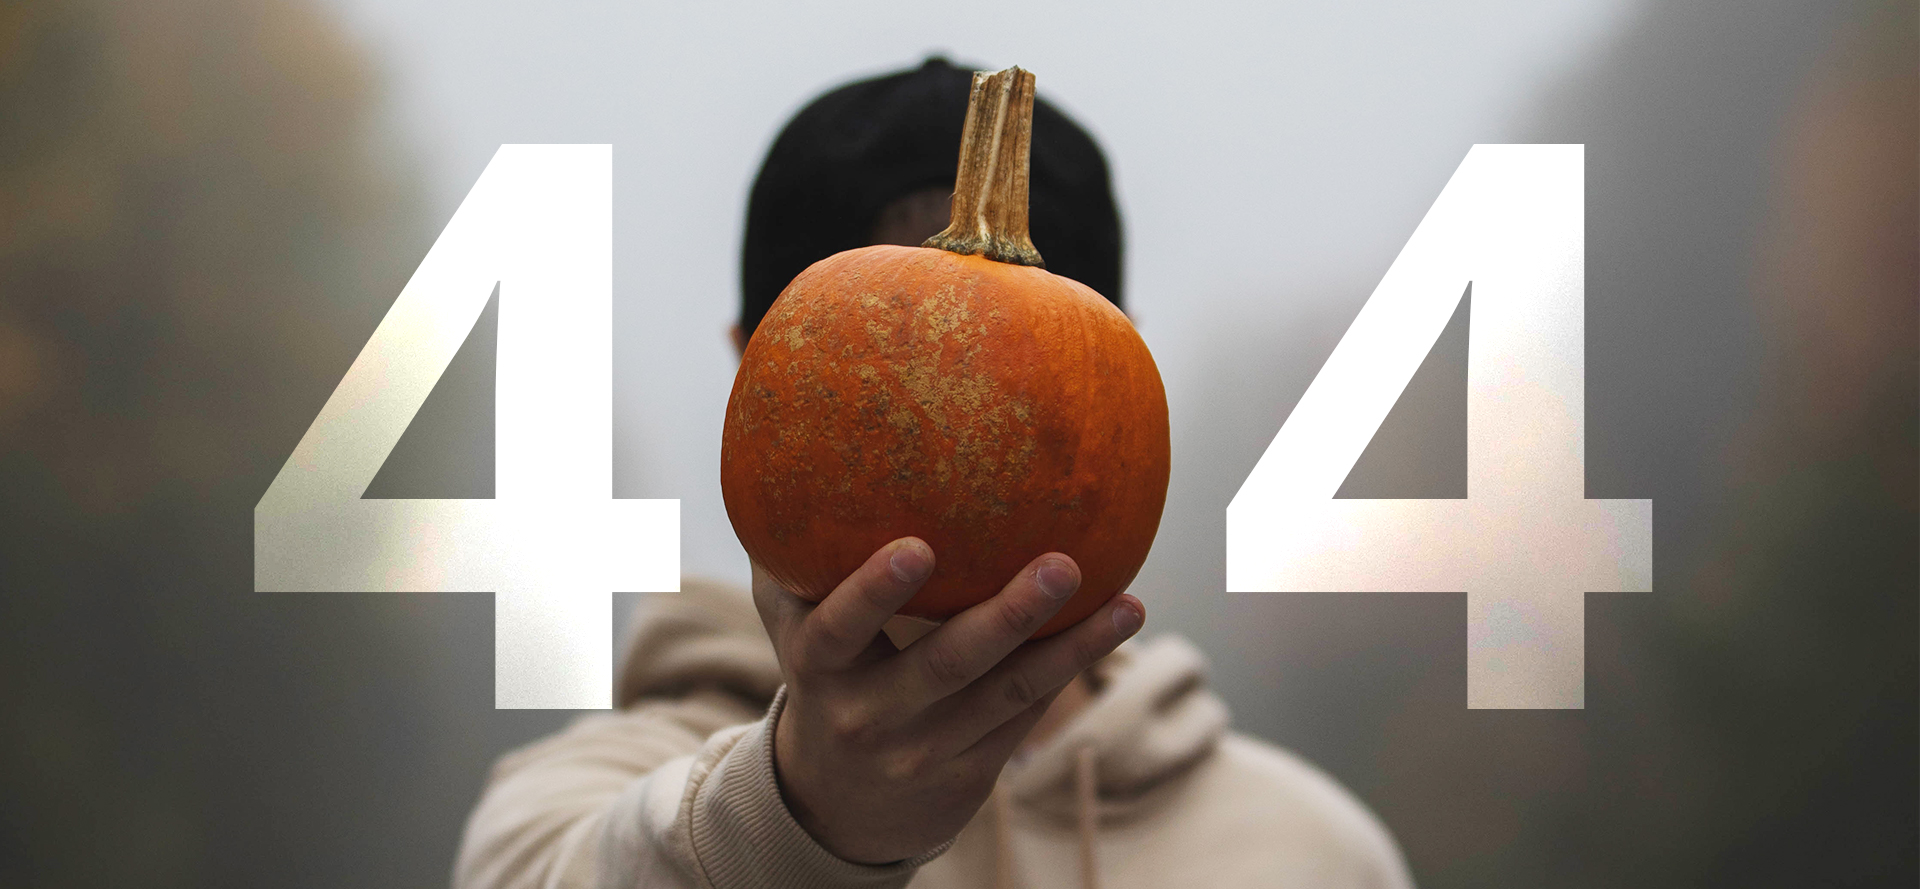
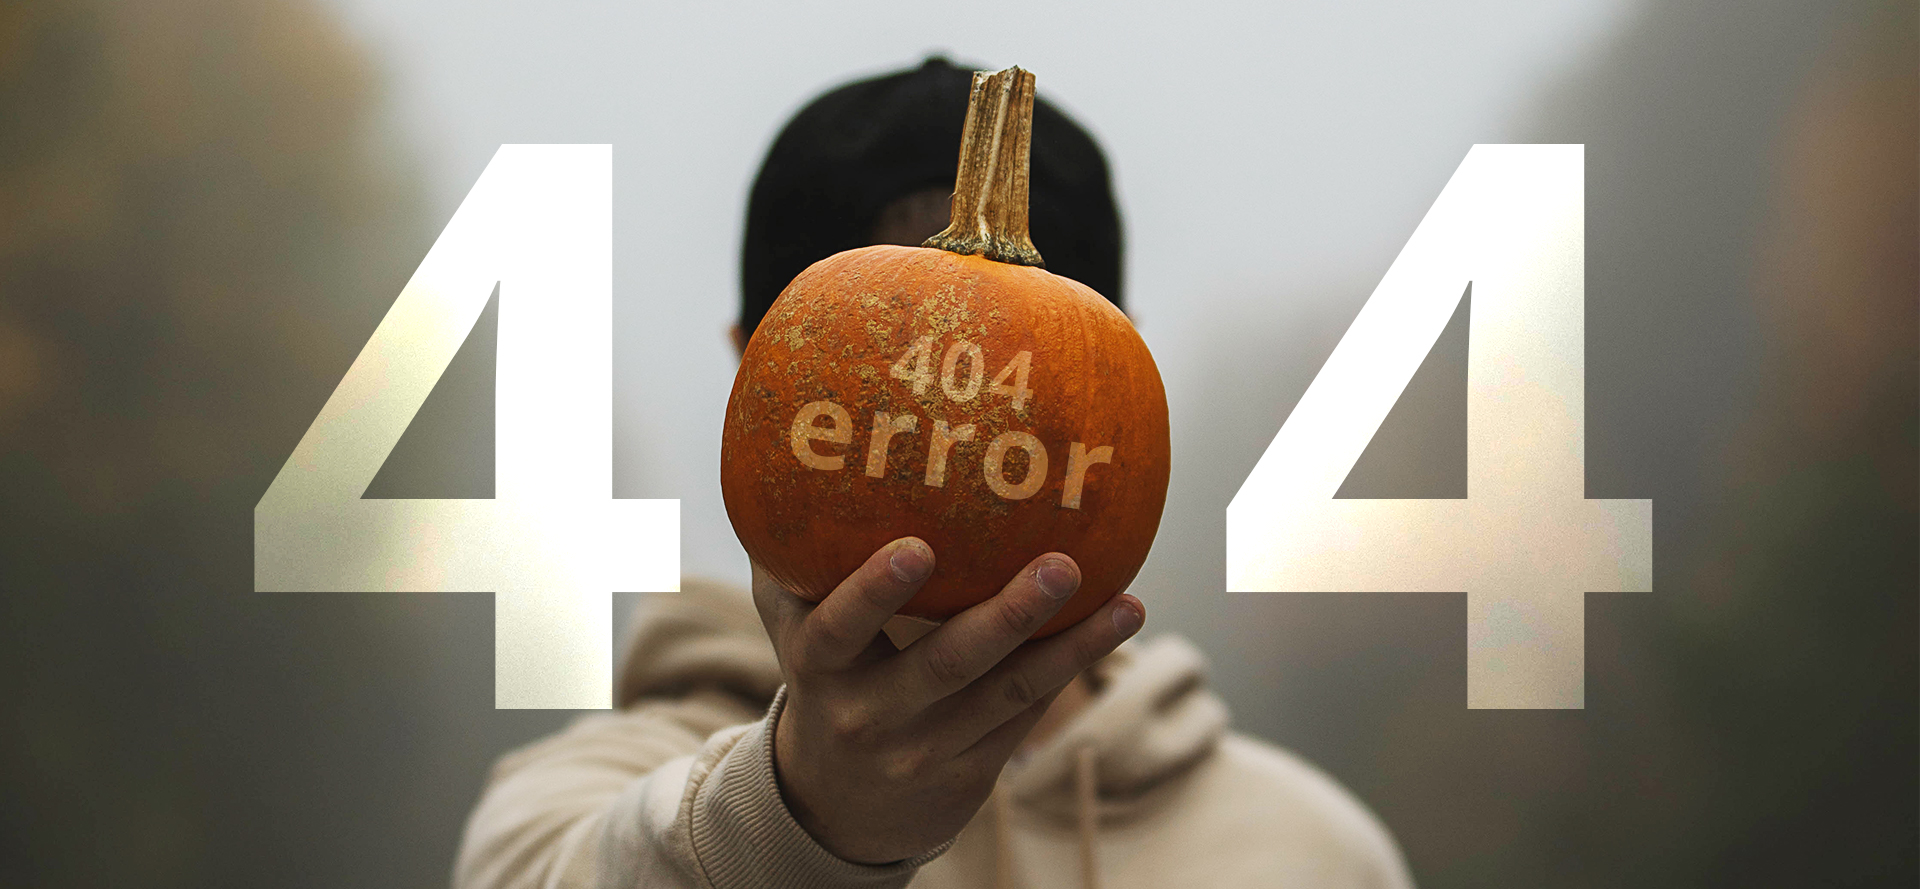
404 page completed

Changed region(s): [[0.4062, 0.3645, 0.5938, 0.5771], [0.4688, 0.2733, 0.5312, 0.3037]]

diff --git a/index.html b/index.html
@@ -59,7 +59,7 @@
     </div>
     <div class="about-content green-bg unit xs-1 s-1 m-1-2 l-1-2">
       <hr class="push-1-2 white">
-      <h2 itemprop="keywords" class="white exa gutter max-length text-left">Creative<br>Passionate<br>Focused</h2>
+      <h2 itemprop="keywords" class="white exa gutter max-length text-left">BUILD<br>INSPIRE<br>GROW</h2>
       <p itemprop="description" class="white gutter max-length text-left micro">The names Francois but most call me "Frank" or "FM". I'm a freelance designer & photographer, who works with a variety of clients and on many diverse projects. I work to create innovative solutions that inspire and foster memorable relationships between brands and their clients. With a focus on branding and marketing, I strive to create usable and polished products through passionate and deliberate design.</p>
     </div>
   </section>

diff --git a/404.html b/404.html
@@ -49,7 +49,7 @@
 
   <main class="max-width grid gutter-2 pad-t-2 push">
     <div class="unit xs-1 xs-1 m-1 l-1">
-     <img class="img-flex embed push" src="images/404.jpg">
+     <img class="img-flex embed push" src="images/404-2.jpg">
       <h1 class="grey-text push-0">Error 404</h1>
       <p class="grey-text">This page could not be found.</p>
     </div>
